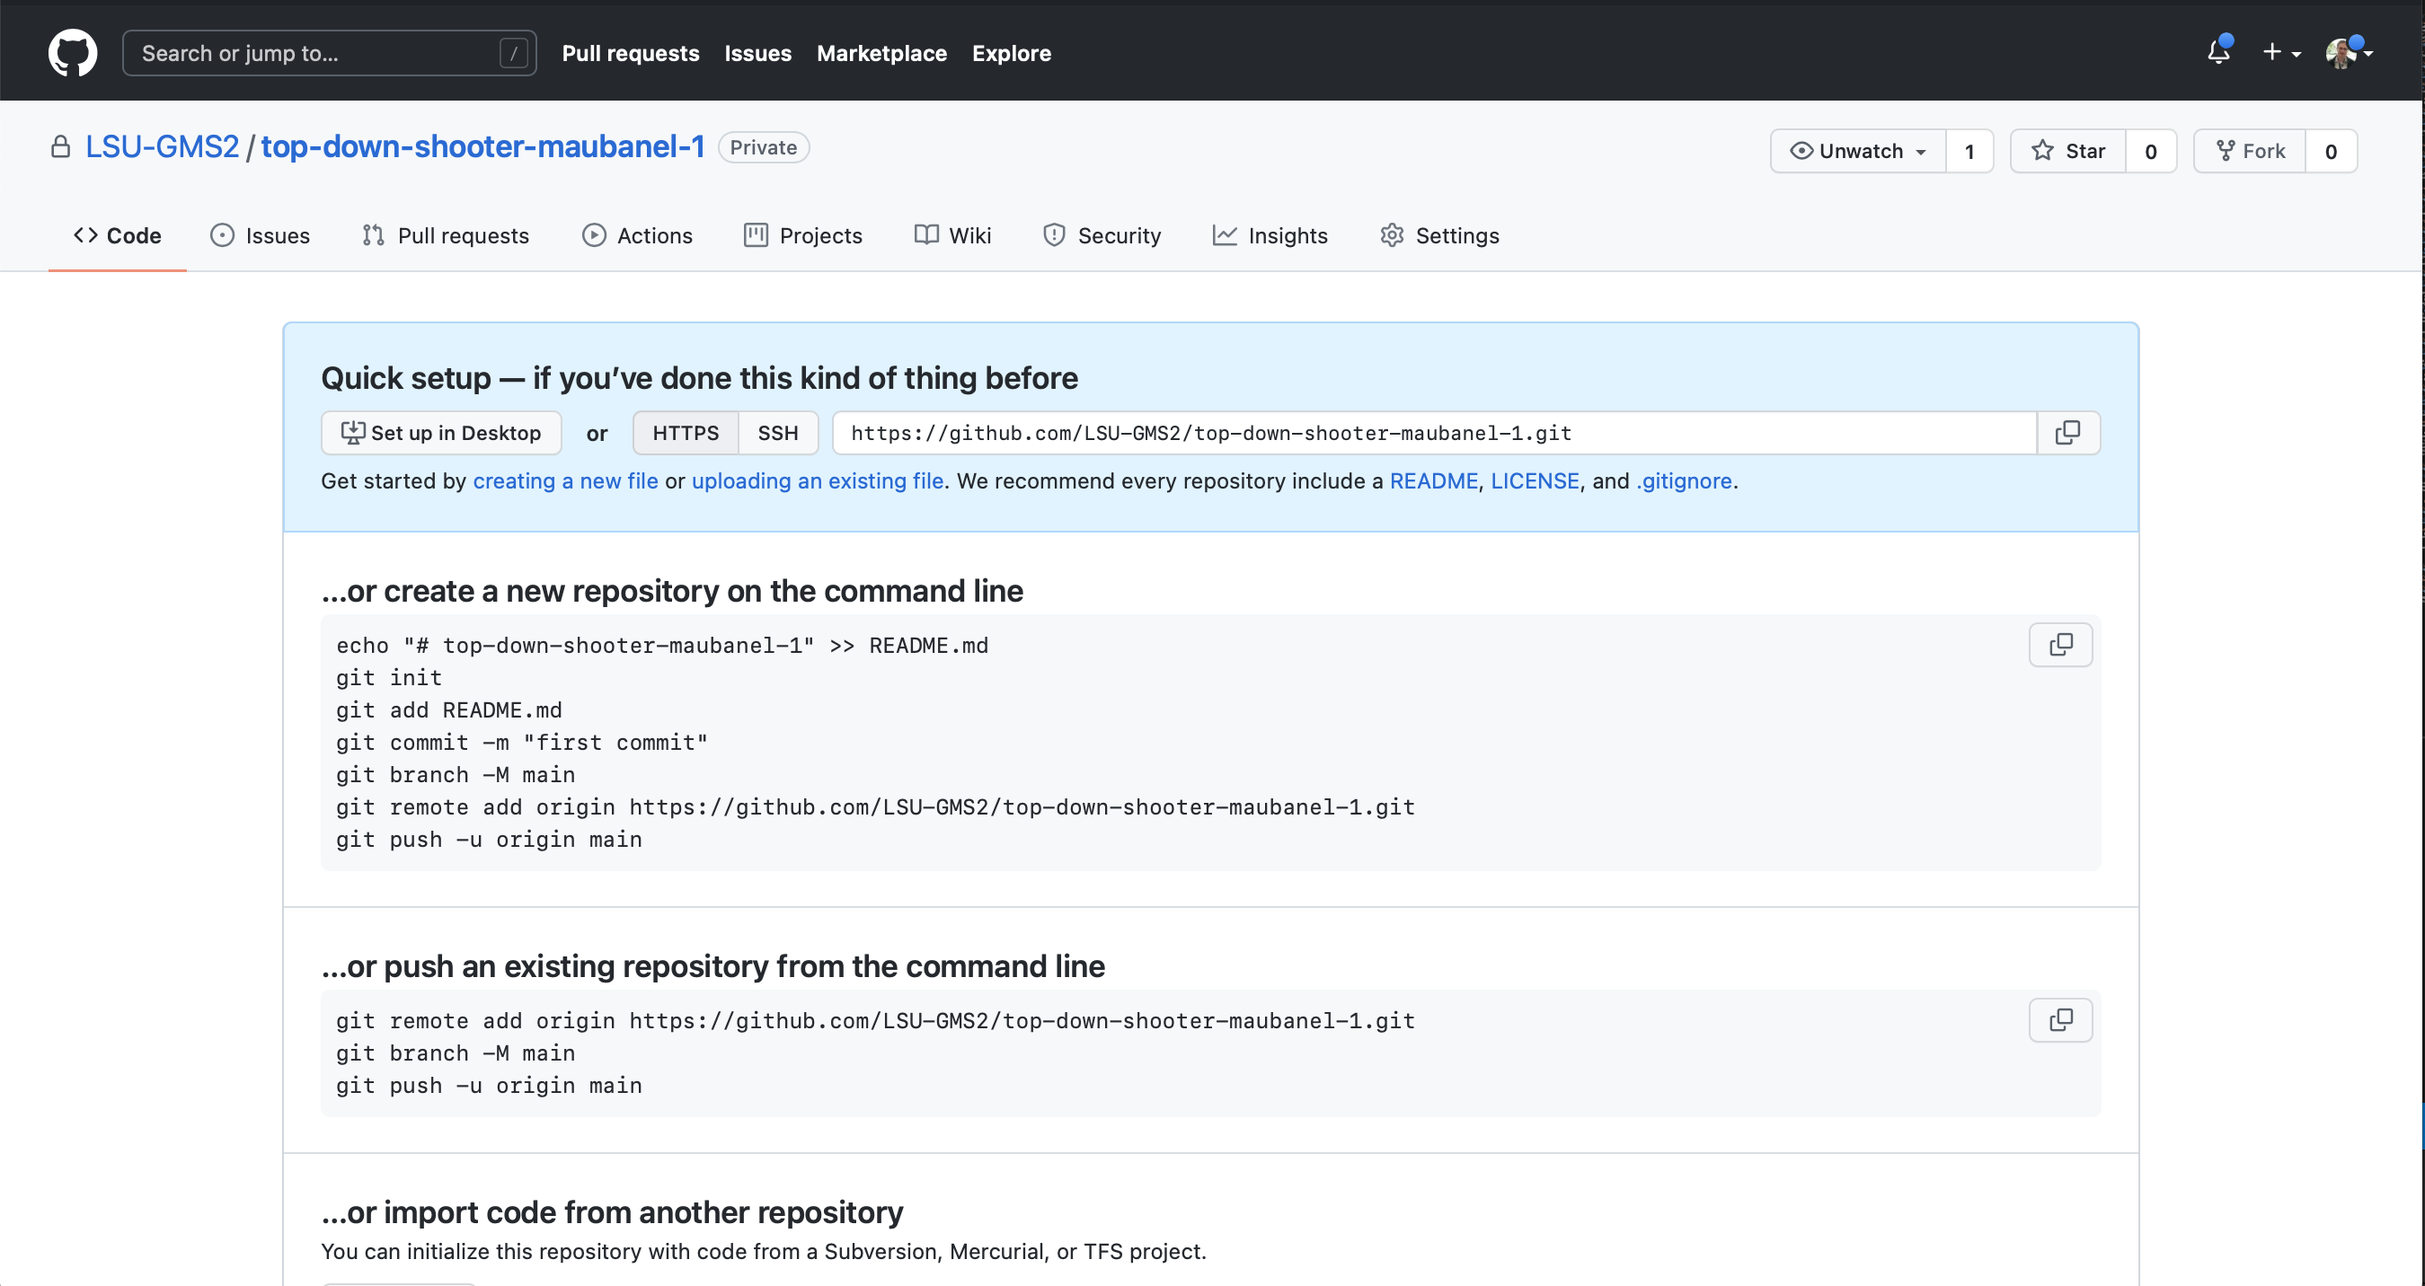
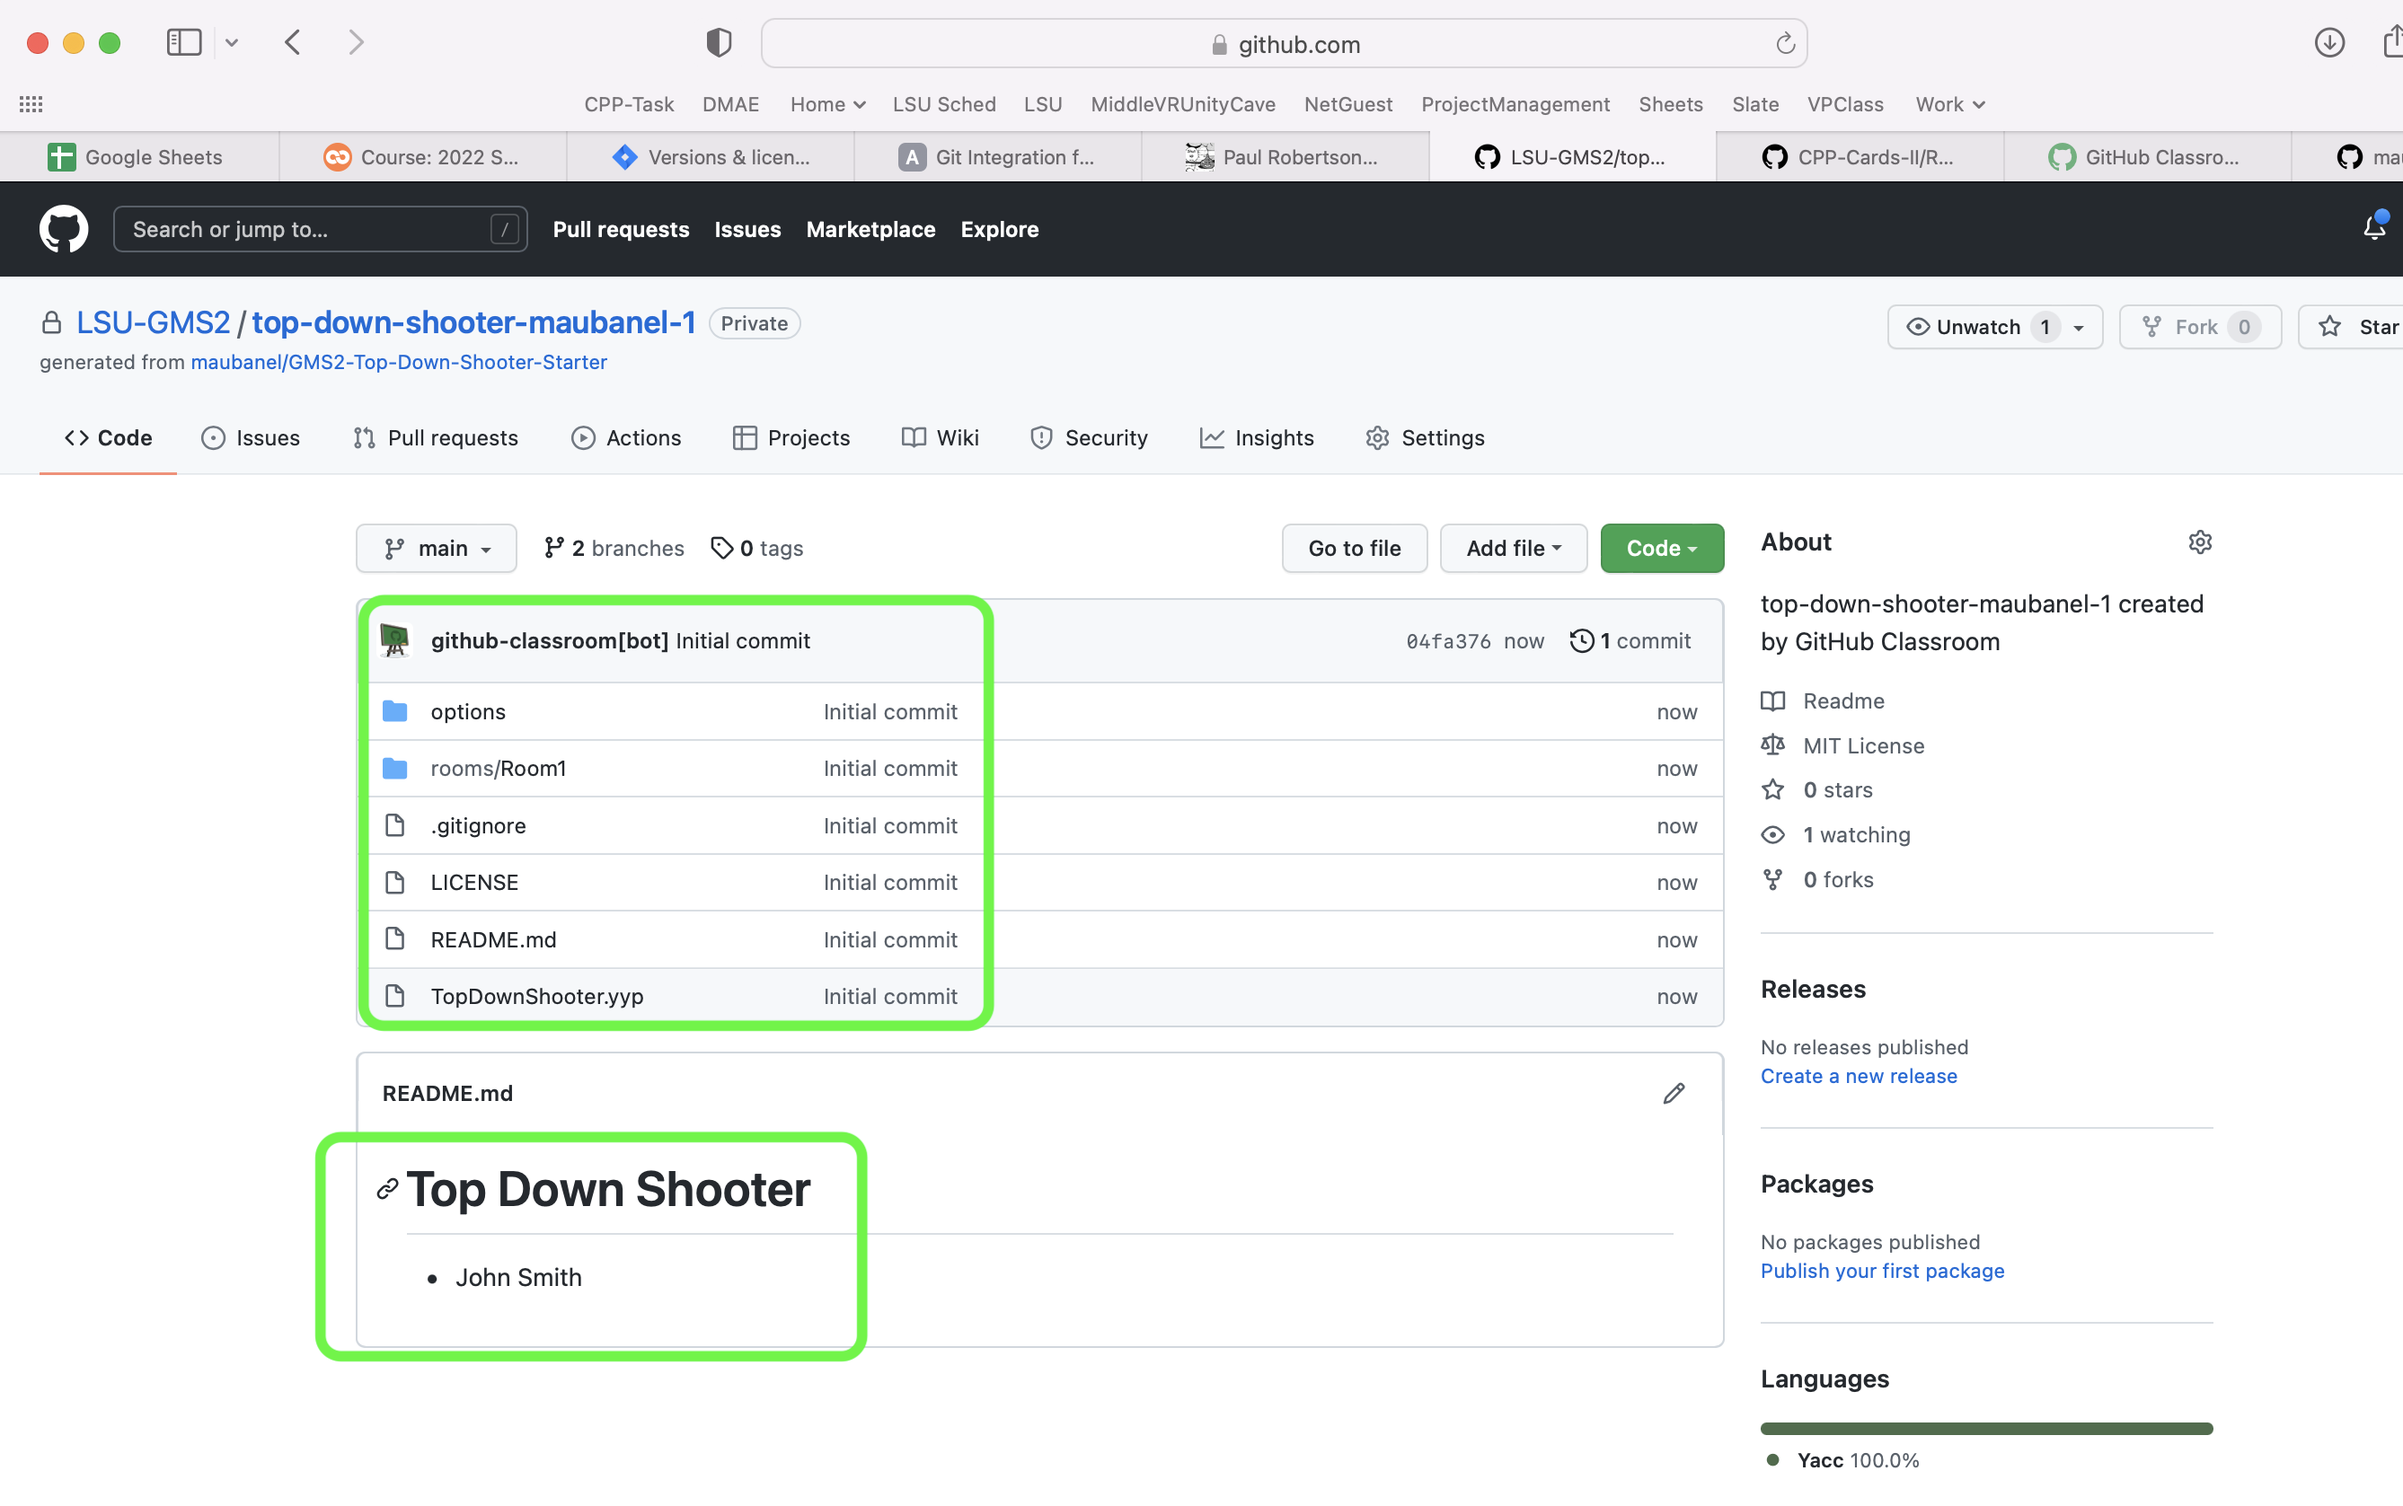
porting walk through

diff --git a/setting-up/README.md b/setting-up/README.md
@@ -45,7 +45,7 @@ Eventually you will get a link to the repository that **GitHub Classroom** has c
 
 ##### `Step 5.`\|`SPCRK`| :small_orange_diamond:
 
-You get to your empty repository on **GitHub**.
+Now I have created a projet for you to start with.  This is a **Blank GML** projet that is called `TopDownShooter`.  Notice that the **README.md** file is displayed on your repository front page.  We also have the folder and all the files for an empty project.
 
 ![empty repository](images/blankRepo.png)
 
